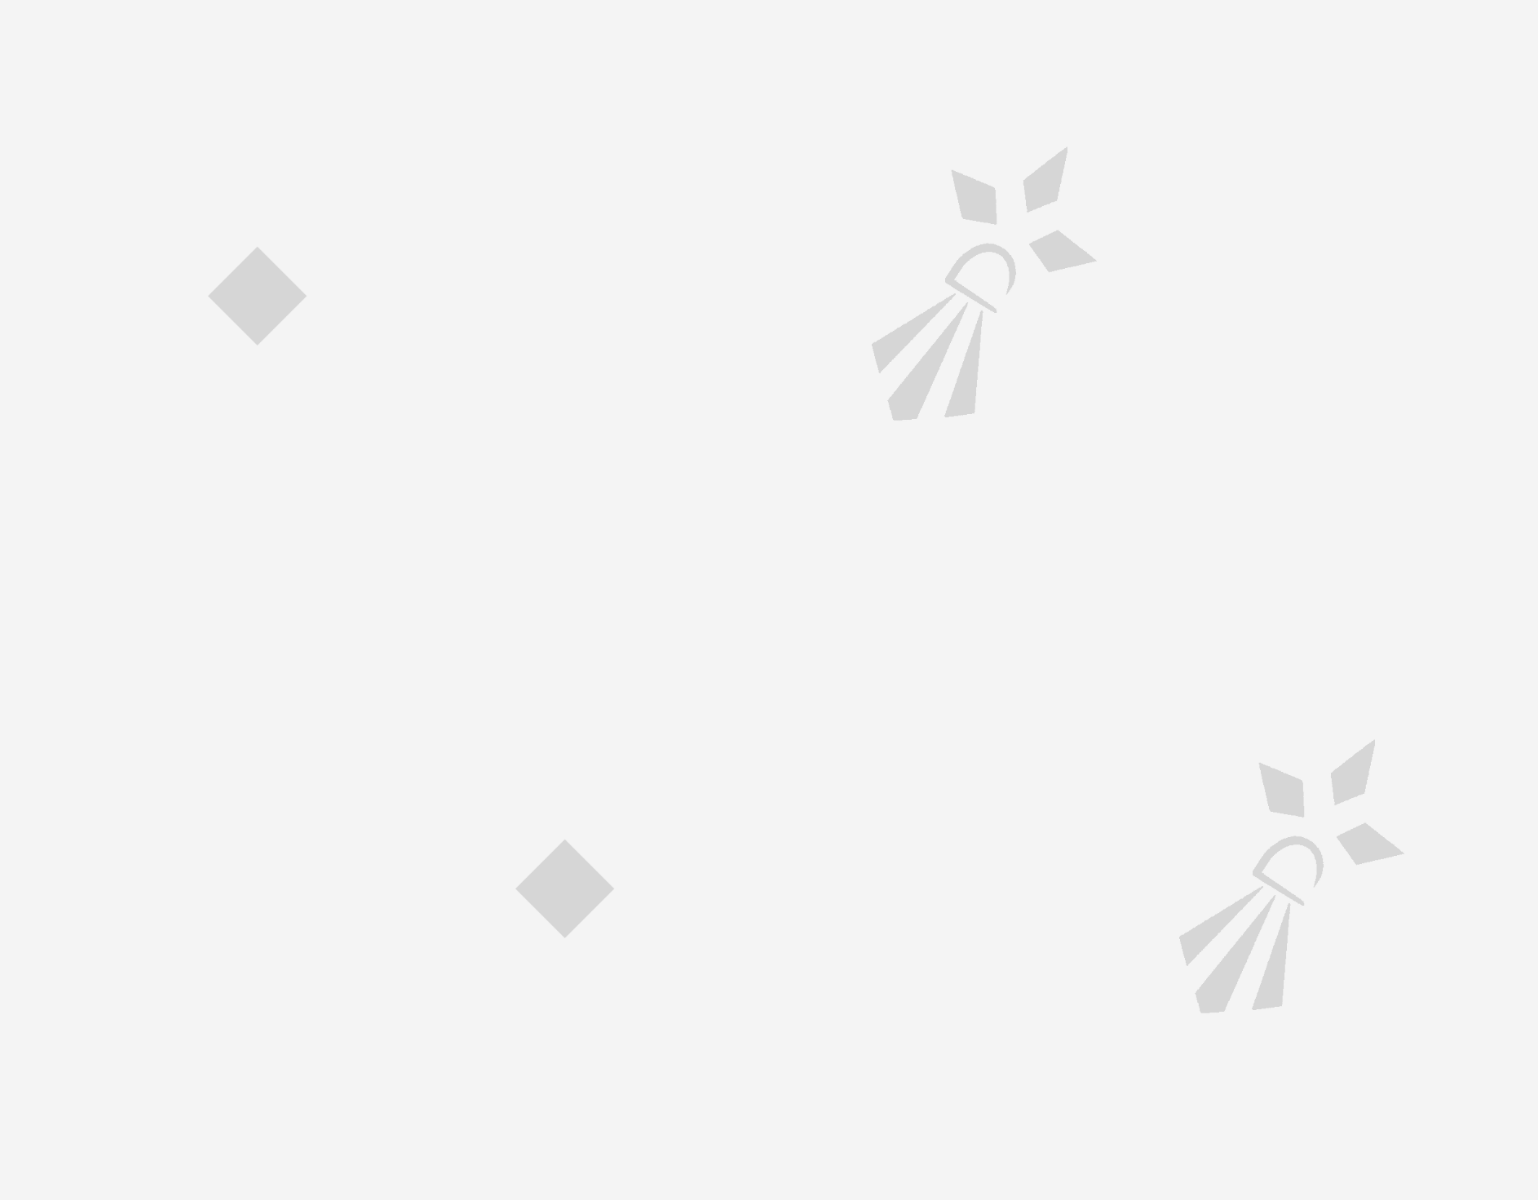
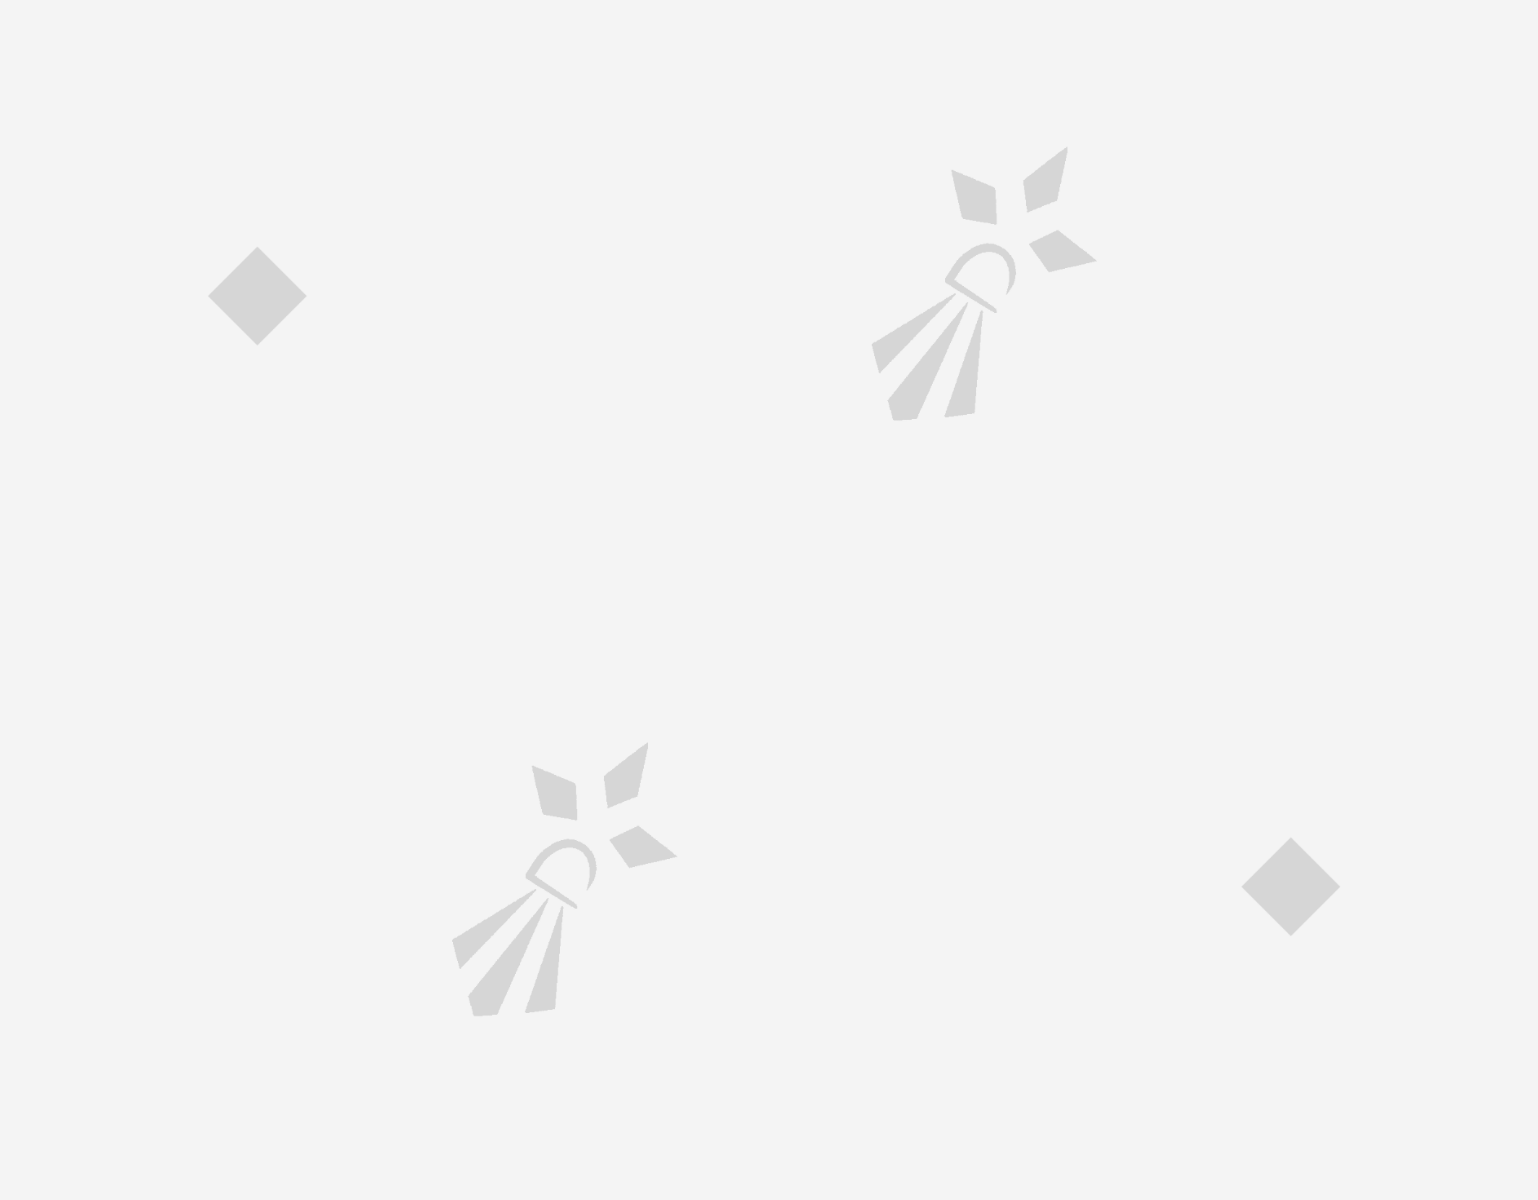
Fond de Page 2, ajustement background: et ajouts de quelques coms sur la page style.css

Changed region(s): [[0.749, 0.6167, 0.9051, 0.8633], [0.2809, 0.6167, 0.4369, 0.8633]]

diff --git a/include/style.css b/include/style.css
@@ -1,3 +1,8 @@
+
+/*----------------------------------------------------------------------------*/
+/*Medias*/
+/*----------------------------------------------------------------------------*/
+
 @media (max-width: 600px) {
   .Carteetinfosclub
   {
@@ -31,6 +36,10 @@
   }
 }
 
+/*----------------------------------------------------------------------------*/
+/*Animations*/
+/*----------------------------------------------------------------------------*/
+
 @keyframes apparition
 {
   from
@@ -42,7 +51,6 @@
     opacity: 1;
   }
 }
-
 
 @keyframes apparitionLogo
 {
@@ -58,13 +66,18 @@
   }
 }
 
+
+/*----------------------------------------------------------------------------*/
+/*Général*/
+/*----------------------------------------------------------------------------*/
+
 body
 {
  padding: 0px;
  margin: 0px;
- background: url("../image/backgroundS4.png");
- background-size: 30%;
- animation: apparition 1s;
+ background: url("../image/backgroundS.png") fixed repeat left/30%;
+ animation: apparition 2s;
+ transition: 2s;
 }
 
 a
